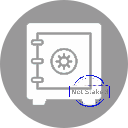
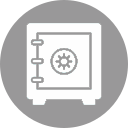
finish account not staked widget

Changed region(s): [[0.5312, 0.5625, 0.875, 0.8438]]

diff --git a/lib/stake/screen/stake_center_screen.dart b/lib/stake/screen/stake_center_screen.dart
@@ -707,9 +707,18 @@ class _StakeCenterScreenState extends State<StakeCenterScreen> with AutomaticKee
   _buildNotStaked(BuildContext context) {
     return Column(
       children: [
-        Image.asset('images/not_staked.png', width: 40.w, height: 40.w,),
-        Text('This account has not been staked'),
-        Text('You should staked your MINA'),
+        Container(height: 40.h,),
+        Image.asset('images/not_staked.png', width: 80.w, height: 80.w,),
+        Container(height: 6.h,),
+        Text('Account not staked', textAlign: TextAlign.center,
+          style: TextStyle(fontSize: 18.sp, fontWeight: FontWeight.w600, color: Color(0xff979797)),),
+        Container(height: 6.h,),
+        Padding(
+          padding: EdgeInsets.only(left: 26.w, right: 26.w),
+          child: Text('Delegate your MINA tokens to a staking provider, and earn more MINA.\n\n'+
+            'Staked tokens stay under your control, and can be transferred at anytime.', textAlign: TextAlign.start,
+            style: TextStyle(fontSize: 14.sp, fontWeight: FontWeight.w500, color: Color(0xff2d2d2d)),)
+        ),
       ],
     );
   }
